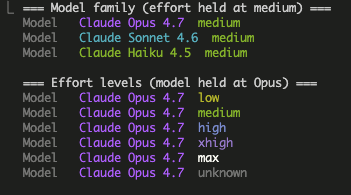
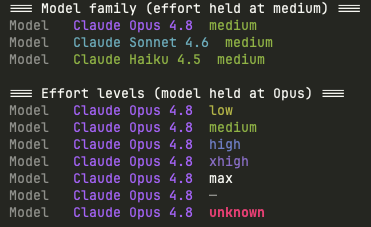
docs: refresh effort swatch image for new states and Opus 4.8
Regenerate the model/effort color swatch to match the shipped behavior:
Opus 4.8 in the model-family rows, plus the new dim em-dash (model has no
effort support) and bright-red "unknown" (unmapped value) effort states.
Update the README caption to describe both new states.

diff --git a/README.md b/README.md
@@ -25,7 +25,7 @@ The 5h / 7d limit bars use a similar gradient but with later waypoints (white at
 
 ![Limit bar color gradient from 5% to 100%](docs/limit-bar-gradient.png)
 
-Model family and effort level are color-coded independently — Opus is purple, Haiku is green, anything else (Sonnet etc.) falls back to cyan. Effort mirrors Claude Code's `/effort` picker palette: yellow / green / blue / magenta / bright-white for low / medium / high / xhigh / max:
+Model family and effort level are color-coded independently — Opus is purple, Haiku is green, anything else (Sonnet etc.) falls back to cyan. Effort mirrors Claude Code's `/effort` picker palette: yellow / green / blue / magenta / bright-white for low / medium / high / xhigh / max — plus a dim `—` when the model has no effort support and a bright-red `unknown` for any value the picker stops emitting:
 
 ![Model family and effort level color swatches](docs/model-effort-colors.png)
 
